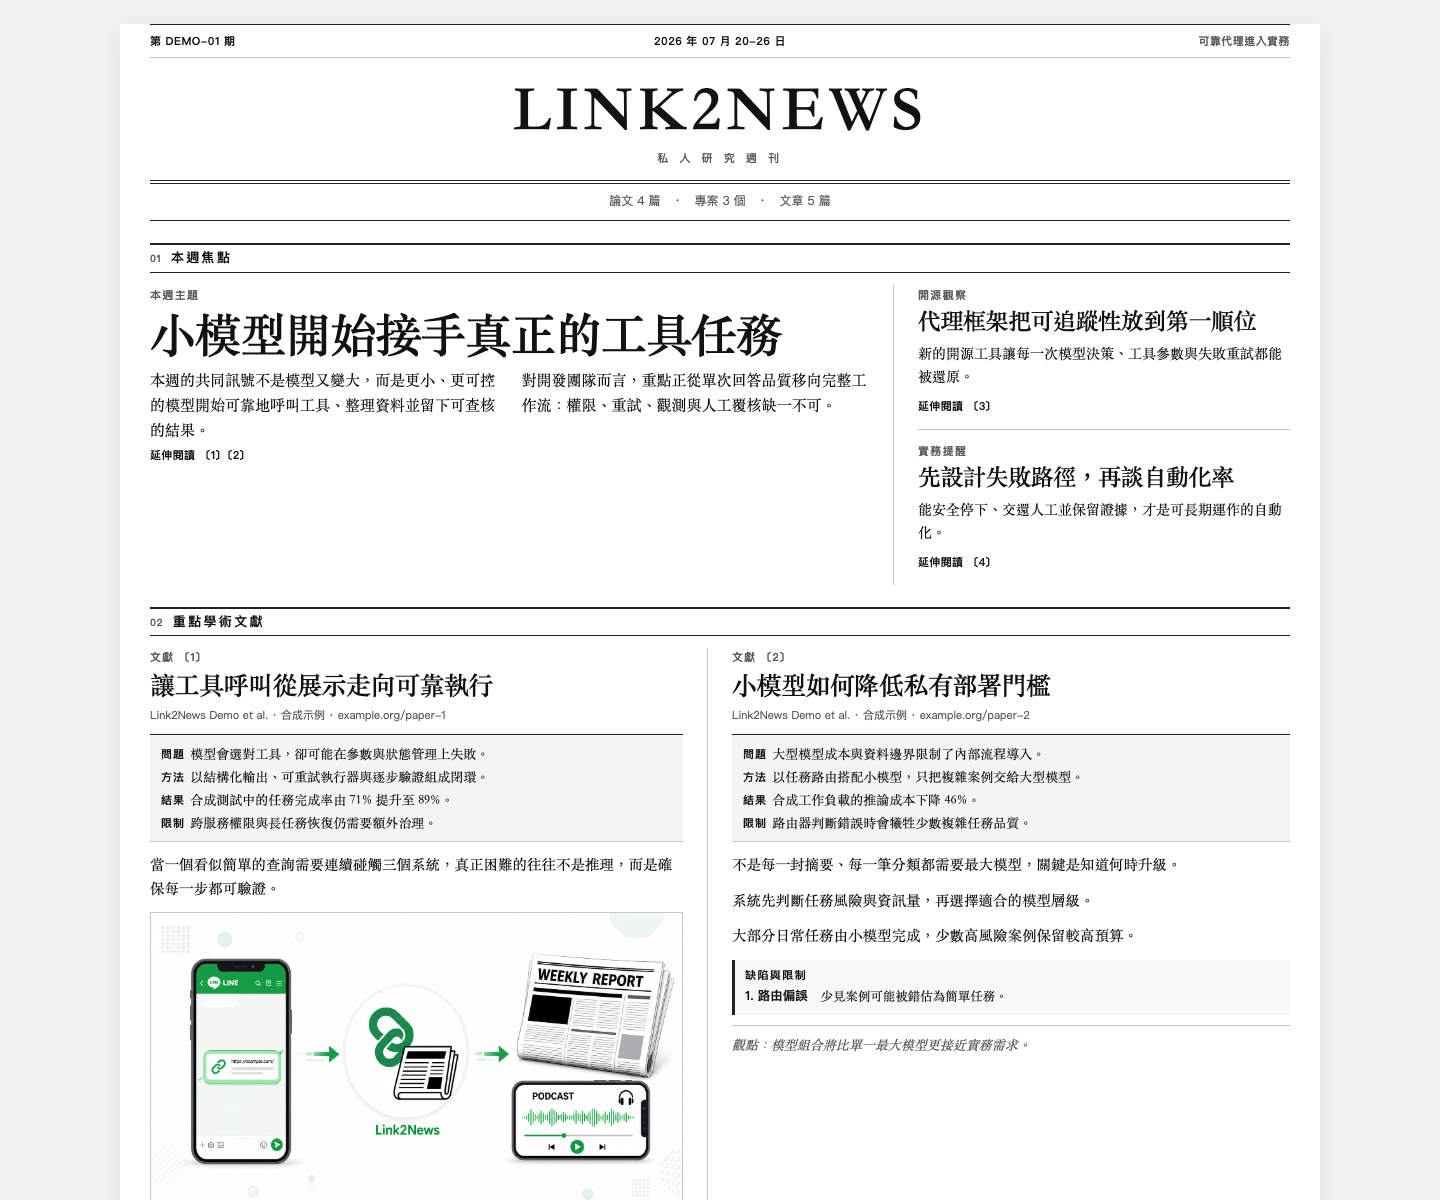
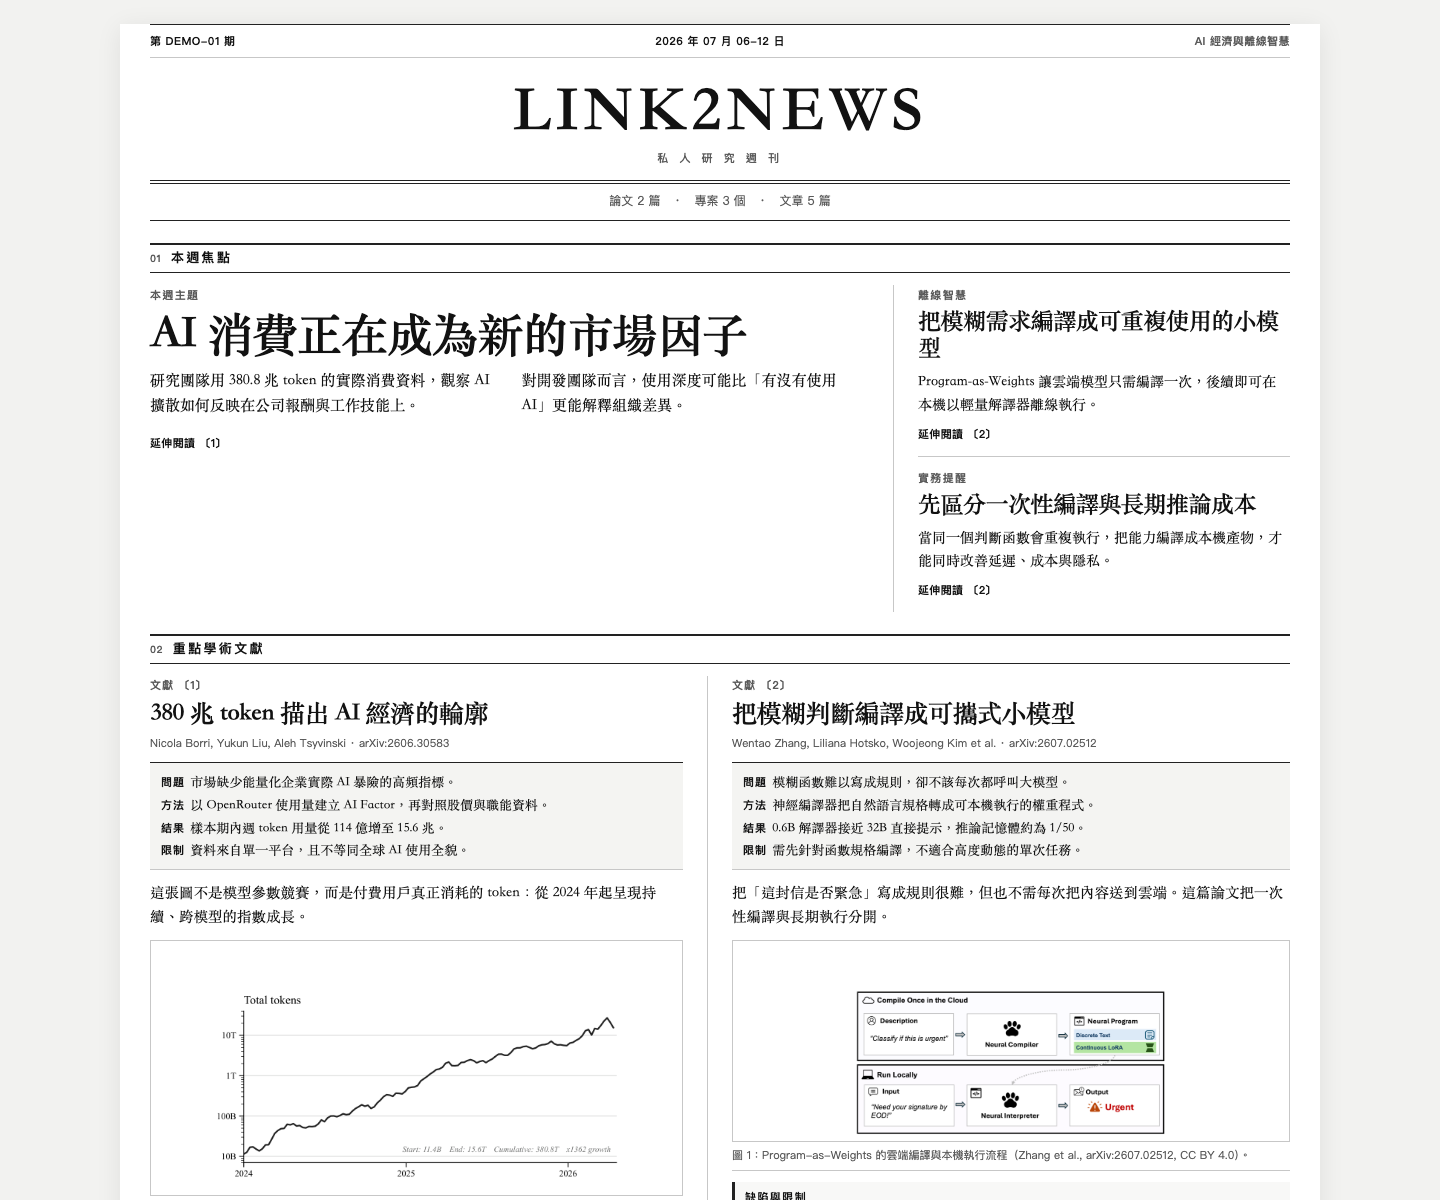
docs: show a figure for every paper column

diff --git a/scripts/generate_readme_preview.py b/scripts/generate_readme_preview.py
@@ -1,5 +1,6 @@
-"""Render a privacy-safe Link2News README preview from synthetic content."""
+"""Render a privacy-safe README preview from public, attributed paper examples."""
 from pathlib import Path
+from urllib.parse import unquote, urlparse
 
 from jinja2 import Environment, FileSystemLoader
 from playwright.sync_api import sync_playwright
@@ -17,86 +18,96 @@ def main() -> None:
     focus = [
         {
             "kicker": "本週主題",
-            "headline": "小模型開始接手真正的工具任務",
+            "headline": "AI 消費正在成為新的市場因子",
             "paragraphs": [
-                "本週的共同訊號不是模型又變大，而是更小、更可控的模型開始可靠地呼叫工具、整理資料並留下可查核的結果。",
-                "對開發團隊而言，重點正從單次回答品質移向完整工作流：權限、重試、觀測與人工覆核缺一不可。",
+                "研究團隊用 380.8 兆 token 的實際消費資料，觀察 AI 擴散如何反映在公司報酬與工作技能上。",
+                "對開發團隊而言，使用深度可能比「有沒有使用 AI」更能解釋組織差異。",
             ],
-            "refs": [1, 2],
+            "refs": [1],
         },
         {
-            "kicker": "開源觀察",
-            "headline": "代理框架把可追蹤性放到第一順位",
-            "paragraphs": ["新的開源工具讓每一次模型決策、工具參數與失敗重試都能被還原。"],
-            "refs": [3],
+            "kicker": "離線智慧",
+            "headline": "把模糊需求編譯成可重複使用的小模型",
+            "paragraphs": ["Program-as-Weights 讓雲端模型只需編譯一次，後續即可在本機以輕量解譯器離線執行。"],
+            "refs": [2],
         },
         {
             "kicker": "實務提醒",
-            "headline": "先設計失敗路徑，再談自動化率",
-            "paragraphs": ["能安全停下、交還人工並保留證據，才是可長期運作的自動化。"],
-            "refs": [4],
+            "headline": "先區分一次性編譯與長期推論成本",
+            "paragraphs": ["當同一個判斷函數會重複執行，把能力編譯成本機產物，才能同時改善延遲、成本與隱私。"],
+            "refs": [2],
         },
     ]
     featured = [
         {
             "ref": 1,
-            "headline": "讓工具呼叫從展示走向可靠執行",
-            "meta": "Link2News Demo et al. · 合成示例 · example.org/paper-1",
+            "headline": "380 兆 token 描出 AI 經濟的輪廓",
+            "meta": "Nicola Borri, Yukun Liu, Aleh Tsyvinski · arXiv:2606.30583",
             "abstract": {
-                "problem": "模型會選對工具，卻可能在參數與狀態管理上失敗。",
-                "method": "以結構化輸出、可重試執行器與逐步驗證組成閉環。",
-                "result": "合成測試中的任務完成率由 71% 提升至 89%。",
-                "limitation": "跨服務權限與長任務恢復仍需要額外治理。",
+                "problem": "市場缺少能量化企業實際 AI 暴險的高頻指標。",
+                "method": "以 OpenRouter 使用量建立 AI Factor，再對照股價與職能資料。",
+                "result": "樣本期內週 token 用量從 114 億增至 15.6 兆。",
+                "limitation": "資料來自單一平台，且不等同全球 AI 使用全貌。",
             },
-            "intro_story": "當一個看似簡單的查詢需要連續碰觸三個系統，真正困難的往往不是推理，而是確保每一步都可驗證。",
+            "intro_story": "這張圖不是模型參數競賽，而是付費用戶真正消耗的 token：從 2024 年起呈現持續、跨模型的指數成長。",
             "method_paragraphs": [],
             "results_paragraphs": [],
             "figures": [{
-                "path": (ASSET_DIR / "link2news-workflow-hero.png").resolve().as_uri(),
-                "caption": "圖 1：從 LINE 連結到新聞式週報與 Podcast 的合成示意。",
+                "path": (ASSET_DIR / "paper-ai-premium-figure-1.png").resolve().as_uri(),
+                "caption": "圖 1：每週 token 總用量（Borri, Liu & Tsyvinski, AI Premium, arXiv:2606.30583, CC BY 4.0）。",
             }],
-            "terms": [{"term": "可觀測性", "blurb": "讓執行狀態、錯誤與結果可被持續追蹤。"}],
-            "flaws": [{"title": "環境差異", "note": "測試服務仍比真實企業系統單純。"}],
-            "vision": "可靠的代理不是永不失敗，而是每次失敗都有清楚出口。",
+            "terms": [{"term": "AI Factor", "blurb": "從 token、金額與用戶成長建立的 AI 消費因子。"}],
+            "flaws": [{"title": "平台偏差", "note": "OpenRouter 用戶結構可能與企業內部使用不同。"}],
+            "vision": "AI 採用的下一階段，將由實際使用深度而非口號定價。",
         },
         {
             "ref": 2,
-            "headline": "小模型如何降低私有部署門檻",
-            "meta": "Link2News Demo et al. · 合成示例 · example.org/paper-2",
+            "headline": "把模糊判斷編譯成可攜式小模型",
+            "meta": "Wentao Zhang, Liliana Hotsko, Woojeong Kim et al. · arXiv:2607.02512",
             "abstract": {
-                "problem": "大型模型成本與資料邊界限制了內部流程導入。",
-                "method": "以任務路由搭配小模型，只把複雜案例交給大型模型。",
-                "result": "合成工作負載的推論成本下降 46%。",
-                "limitation": "路由器判斷錯誤時會犧牲少數複雜任務品質。",
+                "problem": "模糊函數難以寫成規則，卻不該每次都呼叫大模型。",
+                "method": "神經編譯器把自然語言規格轉成可本機執行的權重程式。",
+                "result": "0.6B 解譯器接近 32B 直接提示，推論記憶體約為 1/50。",
+                "limitation": "需先針對函數規格編譯，不適合高度動態的單次任務。",
             },
-            "intro_story": "不是每一封摘要、每一筆分類都需要最大模型，關鍵是知道何時升級。",
-            "method_paragraphs": ["系統先判斷任務風險與資訊量，再選擇適合的模型層級。"],
-            "results_paragraphs": ["大部分日常任務由小模型完成，少數高風險案例保留較高預算。"],
-            "figures": [],
+            "intro_story": "把「這封信是否緊急」寫成規則很難，但也不需每次把內容送到雲端。這篇論文把一次性編譯與長期執行分開。",
+            "method_paragraphs": [],
+            "results_paragraphs": [],
+            "figures": [{
+                "path": (ASSET_DIR / "paper-program-as-weights-figure-1.png").resolve().as_uri(),
+                "caption": "圖 1：Program-as-Weights 的雲端編譯與本機執行流程（Zhang et al., arXiv:2607.02512, CC BY 4.0）。",
+            }],
             "terms": [],
-            "flaws": [{"title": "路由偏誤", "note": "少見案例可能被錯估為簡單任務。"}],
-            "vision": "模型組合將比單一最大模型更接近實務需求。",
+            "flaws": [{"title": "規格依賴", "note": "需求改變時必須重新編譯權重程式。"}],
+            "vision": "未來的應用不只呼叫模型，也會讓模型生成可部署的小型工具。",
         },
     ]
+    for paper in featured:
+        if len(paper.get("figures", [])) != 1:
+            raise ValueError(f"featured paper {paper.get('ref')} must have exactly one figure")
+        figure_path = Path(unquote(urlparse(paper["figures"][0]["path"]).path))
+        if not figure_path.is_file():
+            raise FileNotFoundError(figure_path)
     html = template.render(
         masthead="LINK2NEWS",
         issue_no="DEMO-01",
-        issue_date="2026 年 07 月 20-26 日",
-        issue_title="可靠代理進入實務",
-        n_papers=4,
+        issue_date="2026 年 07 月 06-12 日",
+        issue_title="AI 經濟與離線智慧",
+        n_papers=2,
         n_repos=3,
         n_news=5,
         focus=focus,
         featured=featured,
         roundup={
-            "headline": "本週還值得留意的三個訊號",
-            "paragraphs": ["開源評測、私有部署與安全治理正在匯流成同一條產品路線。"],
+            "headline": "從使用量到本機執行",
+            "paragraphs": ["AI 的價值正從模型排行榜，移向真實使用深度、成本與可部署性。"],
         },
         general_terms=[{"term": "任務路由", "blurb": "依風險與成本把工作交給不同模型。"}],
         references=[
-            {"ref": i, "authors_str": "Link2News Demo", "title": f"Synthetic reference {i}",
-             "url": f"https://example.org/{i}", "citations": None, "pdf": ""}
-            for i in range(1, 5)
+            {"ref": 1, "authors_str": "Borri, Liu, Tsyvinski", "title": "AI Premium",
+             "url": "https://arxiv.org/abs/2606.30583", "citations": None, "pdf": ""},
+            {"ref": 2, "authors_str": "Zhang et al.", "title": "Program-as-Weights",
+             "url": "https://arxiv.org/abs/2607.02512", "citations": None, "pdf": ""},
         ],
         library_dir="local-library/",
         podcast_minutes=15,

diff --git a/pipeline/ingest.py b/pipeline/ingest.py
@@ -209,6 +209,24 @@ def extract_pdf_figures(pdf_path: Path, assets_dir: Path, max_figures: int = 6) 
                     if len(figures) >= max_figures:
                         break
                 page.close()
+            if max_figures > 0 and not figures and len(doc) > 0:
+                # 保底：有些 PDF 的 caption 無法從文字層辨識。用首頁縮圖
+                # 代替空白專欄，並明確標示為論文預覽而非 Figure。
+                page = doc[0]
+                try:
+                    bitmap = page.render(scale=150 / 72)
+                    try:
+                        fname = f"{pdf_path.stem}_p1_preview.png"
+                        fpath = assets_dir / fname
+                        bitmap.to_pil().save(fpath, format="PNG")
+                        figures.append({
+                            "path": str(fpath),
+                            "caption": f"論文首頁預覽：{pdf_path.stem}",
+                        })
+                    finally:
+                        bitmap.close()
+                finally:
+                    page.close()
         finally:
             doc.close()
     except Exception as e:

diff --git a/README.en.md b/README.en.md
@@ -13,22 +13,19 @@ mobile-friendly newspaper PDF and podcast. Share sources with a LINE bot. When y
 request a report, a Mac pipeline resolves the links, creates a cited weekly
 digest and optional podcast, then returns private mobile links through LINE.
 
-![Link2News turns LINE links into a newspaper report and podcast](docs/assets/link2news-product-banner.png)
-
 ## See the result
-
-![Link2News workflow from LINE link to weekly report and podcast](docs/assets/link2news-workflow-hero.png)
 
 ### Newspaper-style report
 
-![A privacy-safe synthetic Link2News report preview](docs/assets/link2news-preview.png)
+![A privacy-safe Link2News report preview using public papers](docs/assets/link2news-preview.png)
 
 ### Podcast demo
 
 [🎧 Play or download the ~30-second podcast demo](docs/assets/link2news-podcast-demo.mp3)
 
-> Every showcase asset uses synthetic data and system-generated speech. The
-> repository contains no user messages, papers, reports, or credentials.
+> The report example uses public papers and attributed CC BY 4.0 figures. The
+> podcast demo uses synthetic text and system-generated speech. The repository
+> contains no user messages, private reports, or credentials.
 
 ## Requirements
 

diff --git a/README.md b/README.md
@@ -9,11 +9,7 @@
 
 [English](README.en.md) · [安裝與技術文件](docs/TECHNICAL.md) · [HTTP API](docs/API.md) · [安全與隱私](docs/SECURITY_AND_PRIVACY.md)
 
-![Link2News 從 LINE 連結產生新聞式週報與 Podcast](docs/assets/link2news-product-banner.png)
-
-## 從一個連結到一份週報
-
-![Link2News 工作流程：LINE 連結轉成週報與 Podcast](docs/assets/link2news-workflow-hero.png)
+## 成果展示
 
 ### 新聞式週報
 
@@ -23,7 +19,7 @@
 
 [🎧 播放／下載 Podcast 音檔範例（約 30 秒）](docs/assets/link2news-podcast-demo.mp3)
 
-> 展示圖、週報與音檔全部使用合成資料與系統語音；repository 不包含任何使用者訊息、文獻、報告或憑證。
+> 週報示例使用公開文獻與已標示來源的 CC BY 4.0 圖片；Podcast Demo 使用合成文本與系統語音。repository 不包含使用者訊息、私有報告或憑證。
 
 ## 它會做什麼
 

diff --git a/THIRD_PARTY_NOTICES.md b/THIRD_PARTY_NOTICES.md
@@ -10,6 +10,9 @@ and service terms of that feature's dependencies.
 | edge-tts | Optional online text-to-speech backend | LGPL-3.0 for most files. It is installed as a replaceable Python dependency and is not copied into this repository. |
 | OpenVoice V2 / MeloTTS | Optional local voice-cloning backend | Installed separately by the user. Pin and review the selected upstream revision and model card before use. |
 | Playwright / Chromium | HTML-to-PDF rendering | Apache-2.0 for Playwright; Chromium includes multiple third-party licenses. |
+| *AI Premium*, Figure 1 | README report demo; cropped from the PDF with no content edits | Nicola Borri, Yukun Liu, and Aleh Tsyvinski; [arXiv:2606.30583](https://arxiv.org/abs/2606.30583); [CC BY 4.0](https://creativecommons.org/licenses/by/4.0/). |
+| *Program-as-Weights*, Figure 1 | README report demo; cropped from the PDF with no content edits | Wentao Zhang, Liliana Hotsko, Woojeong Kim, Pengyu Nie, Stuart Shieber, and Yuntian Deng; [arXiv:2607.02512](https://arxiv.org/abs/2607.02512); [CC BY 4.0](https://creativecommons.org/licenses/by/4.0/). |
 
 Do not use a voice sample without the speaker's informed authorization. The
-project does not ship voice samples, model checkpoints, or generated media.
+project does not ship voice samples or model checkpoints. The README podcast
+demo uses macOS system voices and synthetic text.

diff --git a/docs/TECHNICAL.md b/docs/TECHNICAL.md
@@ -199,14 +199,14 @@ output/YYYY-Www/
 
 ## README 展示素材
 
-公開 repository 的週報截圖與 Podcast Demo 都使用合成內容，可重複產生：
+公開 repository 的週報截圖使用公開文獻與已標示來源的 CC BY 4.0 圖片；Podcast Demo 使用合成文本與系統語音。兩者均可重複產生：
 
 ```bash
 .venv/bin/python scripts/generate_readme_preview.py
 ./scripts/generate_podcast_demo.sh
 ```
 
-Podcast Demo 需要 macOS `say` 與 `ffmpeg`；產出的 MP3 不含真實連結、使用者訊息或私有週報內容。
+Podcast Demo 需要 macOS `say` 與 `ffmpeg`；產出的 MP3 不含真實連結、使用者訊息或私有週報內容。文獻圖片的來源與授權見 [THIRD_PARTY_NOTICES.md](../THIRD_PARTY_NOTICES.md)。
 
 ## 監控
 